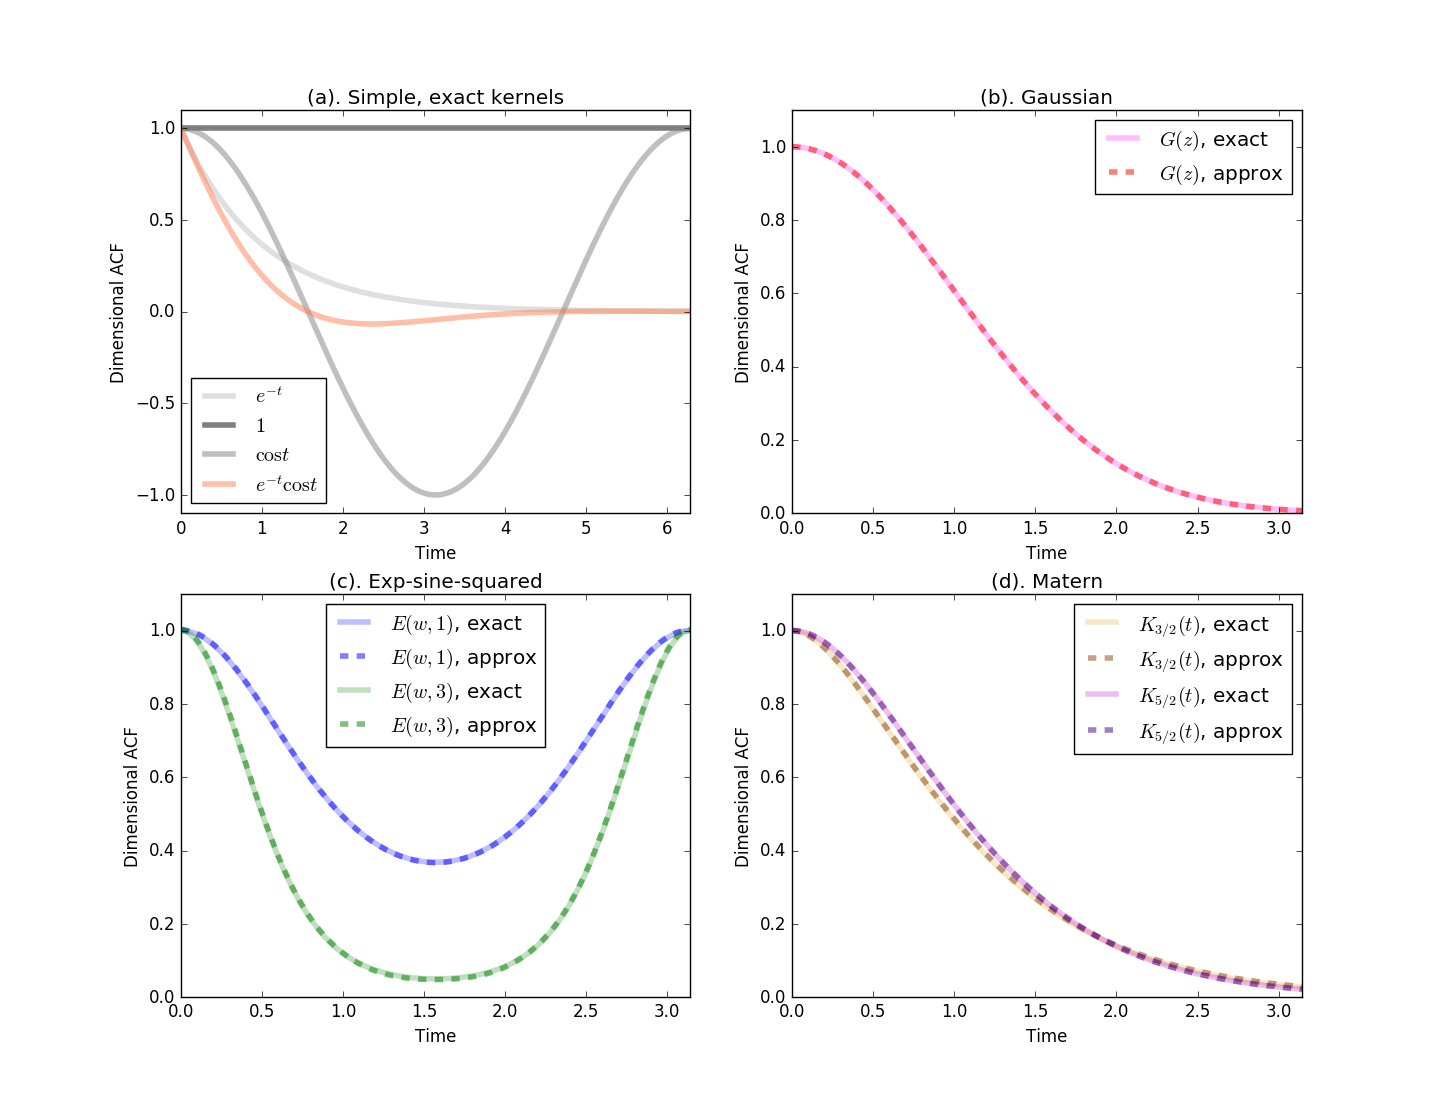
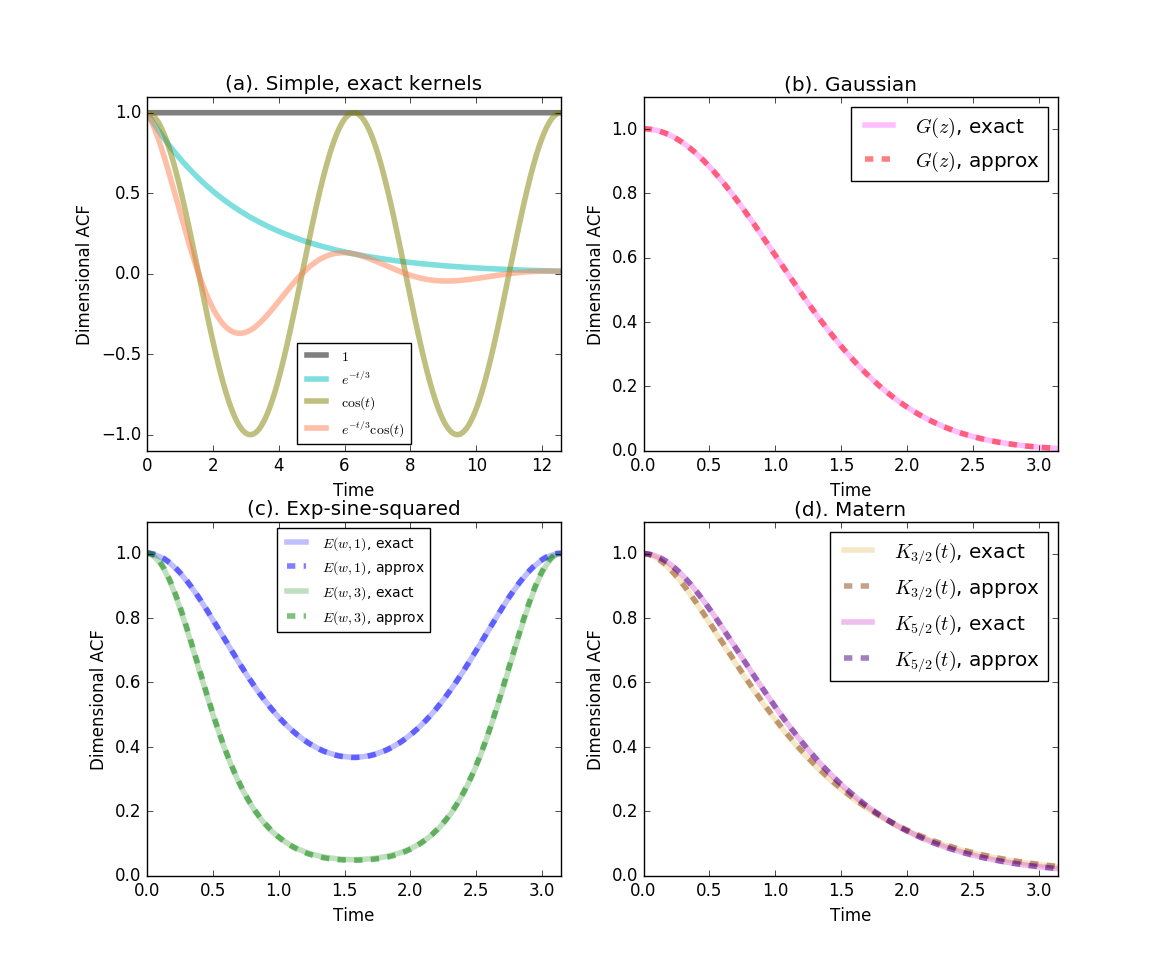
Made changes to kernel figure.

diff --git a/paper/ms.tex b/paper/ms.tex
@@ -540,8 +540,8 @@ for modeling a wide range of kernel behaviors.
 \begin{center}
 \includegraphics[width=\textwidth]{kernel_approx.png}
 \caption{Approximation of various kernels with the sums of damped cosines with $\tau_0=1$. 
-(a). Kernels that may be expressed exactly: constant (dark grey), exponential (light grey), 
-cosine (grey), and damped cosine (salmon).
+(a). Kernels that may be expressed exactly: constant (dark grey), exponential (cyan), 
+cosine (olive), and damped cosine (salmon).
 (b). Approximation of the squared-exponential (Gaussian) kernel (pink) with three
 damped cosine kernels (magenta). (c). The approximation of the exponential-sine-squared
 kernel with $\Gamma =1$ (blue) and $\Gamma = 3$ (green). (d). Two Mat\'ern kernels,
